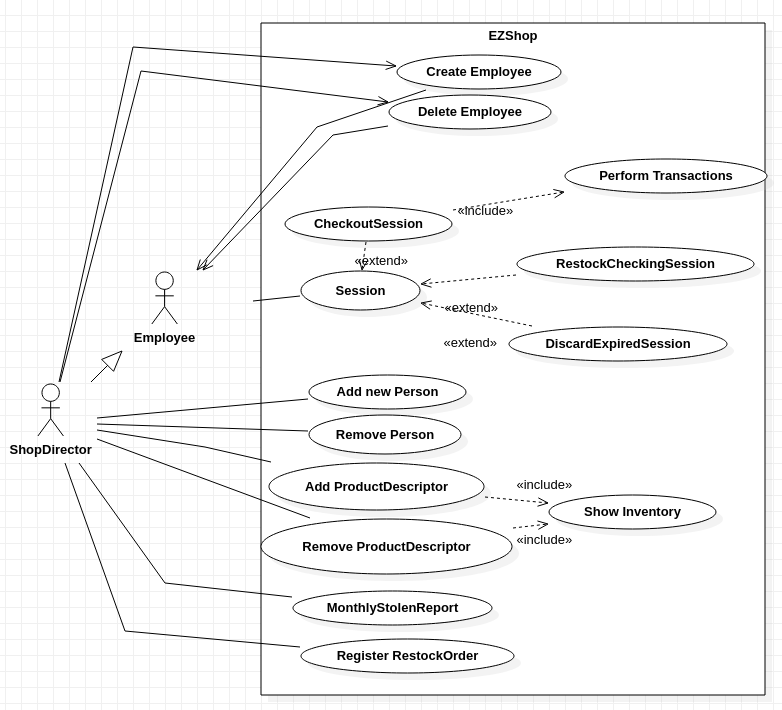
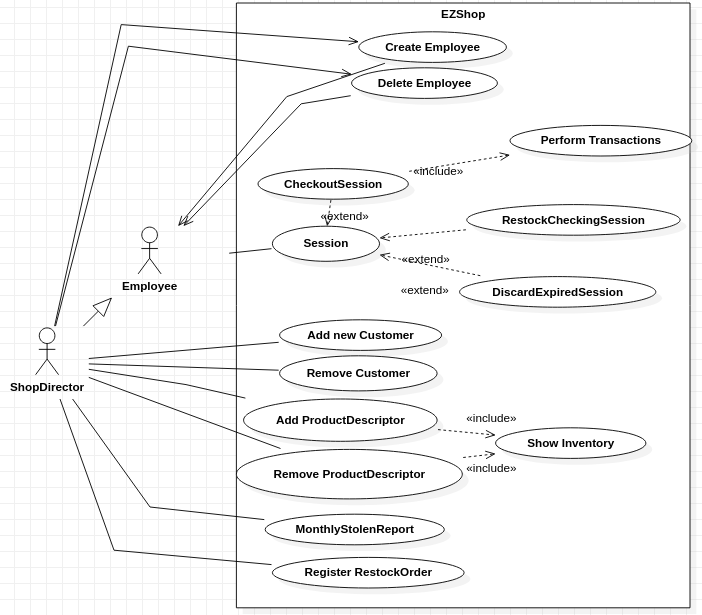
file: update use cases diagram and requirement.md

diff --git a/files/Requirements.md b/files/Requirements.md
@@ -1,15 +1,13 @@
 # Stakeholders
 | Stakeholder name | Description                                                                                                                                                      |
 | ---------------- | -----------                                                                                                                                                      |
-| User             | Any user who can interact with the system:<br>- Cashier<br> - Owner<br> - Shop Director<br> - Product Discarder<br> - Restock Checker<br>                        |
+| User             | Any user who can interact with the system:<br>- Employee<br> - Shop Director<br>                    |
 | Small shops      | Any type of small-medium sized business (from 50 to 200 square meters) with an inventory ranging from 500 to 2000 different types of products.                   |
 | POS System       | The system interacts with a POS type application for managing transactions                                                                                       |
 | Developer        | Who develops and maintains the system (software engineer, marketing person, bank's IT specialist)                                                                |
 | IT Administrator | Administrator of the IT System                                                                                                                                   |
-| Revenue agency   | gets shop's monthly accounting update notification                                                                                                               |
 | Barcode reader   | Barcode used to scan products                                                                                                                                    |
 | Product          | Sold goods                                                                                                                                                       |
-| DBMS             | Used to store, acces and share data between different terminals using EZShop at the same time within the same shop                                             |
 
 # Context Diagram and interfaces
 
